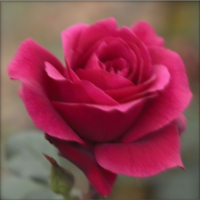
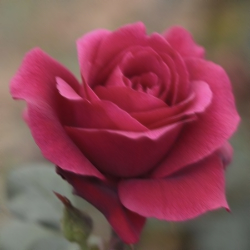
Update examples

diff --git a/dist/bundle.js b/dist/bundle.js
@@ -92,7 +92,7 @@ image.onload = function () {
   let imageData = canvas.context.getImageData(0, 0, width, height);
   filter.grayscale(imageData);
   filter.sepia(imageData);
-  filter.convolution(imageData, filter.gaussian);
+  filter.convolution(imageData, filter.motionBlur);
   canvas.context.putImageData(imageData, 0, 0);
 };
 image.src = 'rose.jpg';

diff --git a/src/index.js b/src/index.js
@@ -12,7 +12,7 @@ image.onload = function () {
   let imageData = canvas.context.getImageData(0, 0, width, height)
   filter.grayscale(imageData)
   filter.sepia(imageData)
-  filter.convolution(imageData, filter.gaussian)
+  filter.convolution(imageData, filter.motionBlur)
   canvas.context.putImageData(imageData, 0, 0)
 }
 image.src = 'rose.jpg'

diff --git a/README.md b/README.md
@@ -32,6 +32,7 @@ canvas.context.putImageData(newImageData, 0, 0)
 
 ## Examples
 
+
 ### Original
 
 ![Original](./examples/original.jpg)
@@ -45,6 +46,10 @@ Shouts to r/outrun.
 ### Motion Blur
 
 ![Motion Blur](./examples/motion-blur.jpg)
+
+## Grayscale, Sepia, and Gaussian
+
+![Grayscale, Sepia, and Gaussian](./examples/grayscale-sepia-gaussian.jpg)
 
 ## Sources
 
